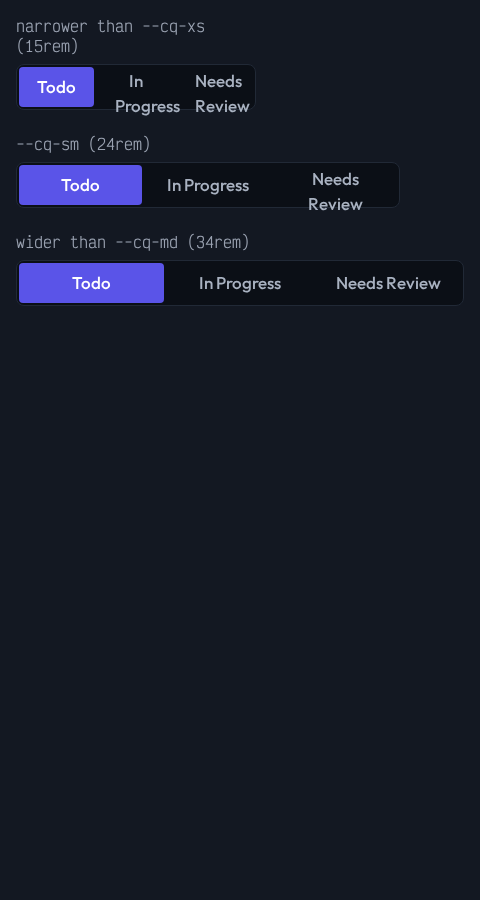
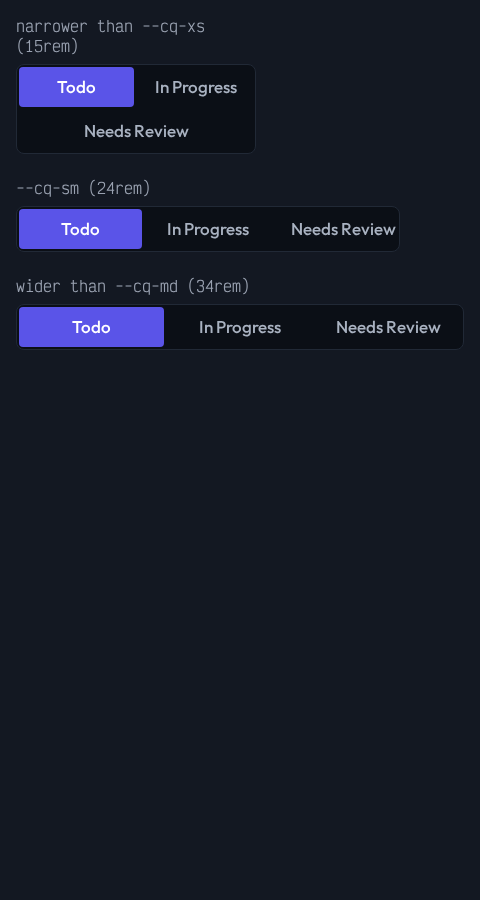
fix(ui): wrap narrow board lane selectors

diff --git a/packages/ui/src/SegmentedControl/SegmentedControl.test.tsx b/packages/ui/src/SegmentedControl/SegmentedControl.test.tsx
@@ -207,7 +207,7 @@ test("selectedValue decides the first render and nothing after", async () => {
   })
 })
 
-test("full-width mode fills its container with equal options", async () => {
+test("full-width mode fills its container without wrapping labels", async () => {
   const { canvas } = await mountStory(FullWidth)
 
   for (const group of canvas.getAllByRole("radiogroup", {
@@ -218,13 +218,26 @@ test("full-width mode fills its container with equal options", async () => {
       (option) => option.getBoundingClientRect().width,
     )
 
-    expect(
-      group.getBoundingClientRect().width,
-    ).toBeGreaterThan(
-      widths.reduce((sum, width) => sum + width, 0),
-    )
-    expect(
-      Math.max(...widths) - Math.min(...widths),
-    ).toBeLessThan(1)
+    if (
+      group.getAttribute("aria-label")?.includes("15rem")
+    ) {
+      // Two equal targets fit on the first row. The third fills the
+      // second row, so every label stays intact and there is no gap.
+      expect(widths[0]).toBeCloseTo(widths[1] ?? 0, 0)
+      expect(widths[2]).toBeGreaterThan(widths[0] ?? 0)
+      expect(
+        group.getBoundingClientRect().width -
+          (widths[2] ?? 0),
+      ).toBeLessThanOrEqual(8)
+    } else {
+      expect(
+        group.getBoundingClientRect().width,
+      ).toBeGreaterThan(
+        widths.reduce((sum, width) => sum + width, 0),
+      )
+      expect(
+        Math.max(...widths) - Math.min(...widths),
+      ).toBeLessThan(1)
+    }
   }
 })

diff --git a/packages/ui/src/SegmentedControl/SegmentedControl.stories.tsx b/packages/ui/src/SegmentedControl/SegmentedControl.stories.tsx
@@ -142,15 +142,38 @@ export const Responsive: Story = {
 /**
  * A board's lane selector is a route selector, not a compact
  * preference. It reaches the board's edges and each route gets the
- * same hit area, even when the labels have different lengths.
+ * same hit area. At a cramped width, two targets share the first
+ * row and the final target takes the full second row, so no label
+ * wraps or clips.
  */
 export const FullWidth: Story = {
   args: {
     isFullWidth: true,
     items: [
-      { label: "Todo", value: "todo" },
-      { label: "In Progress", value: "in-progress" },
-      { label: "Needs Review", value: "needs-review" },
+      {
+        label: (
+          <span className="block whitespace-nowrap">
+            Todo
+          </span>
+        ),
+        value: "todo",
+      },
+      {
+        label: (
+          <span className="block whitespace-nowrap">
+            In Progress
+          </span>
+        ),
+        value: "in-progress",
+      },
+      {
+        label: (
+          <span className="block whitespace-nowrap">
+            Needs Review
+          </span>
+        ),
+        value: "needs-review",
+      },
     ],
     label: "Board lanes",
   },

diff --git a/packages/ui/src/SegmentedControl/SegmentedOption.tsx b/packages/ui/src/SegmentedControl/SegmentedOption.tsx
@@ -67,7 +67,11 @@ export const SegmentedOption = ({
       aria-checked={isChecked}
       className={toClassName(
         "cursor-pointer rounded-sm border border-transparent font-medium tabular-nums transition-colors duration-(--duration-fast) ease-standard",
-        isFullWidth && "min-w-0 flex-1 basis-0",
+        // In a very narrow board, three full labels cannot share
+        // one row. The minimum lets two fit, then the final option
+        // takes a full second row instead of wrapping its label or
+        // leaving unused space beside it.
+        isFullWidth && "min-w-28 flex-1 basis-28",
         CONTROL_SIZE_CLASS[size],
         // Two entries rather than one interpolated string:
         // `tailwindCandidates.test.ts` rejects a template literal in

diff --git a/packages/ui/src/Board/Board.tsx b/packages/ui/src/Board/Board.tsx
@@ -278,7 +278,12 @@ export const Board = ({
             // on any line at all.
             label: (
               <span className="flex flex-col items-center leading-tight">
-                <span>{lane.label}</span>
+                {/* Equal-width targets wrap onto a second row at an
+                    extreme Narrow View width, so lane labels always
+                    stay whole and each target keeps its baseline. */}
+                <span className="block whitespace-nowrap">
+                  {lane.label}
+                </span>
 
                 <span className="font-normal text-content-muted text-xs">
                   {String(

diff --git a/packages/ui/src/Board/Board.test.tsx b/packages/ui/src/Board/Board.test.tsx
@@ -325,6 +325,14 @@ test("the narrow layout picks lanes with a named radiogroup", async () => {
     name: /In Progress/,
   })
 
+  // Equal-width targets must not grow to two different heights just
+  // because one lane name contains a space. At an extreme Narrow
+  // View width, the selector wraps its final target rather than the
+  // label itself.
+  await expect(
+    within(inProgress).getByText("In Progress"),
+  ).toHaveClass("whitespace-nowrap")
+
   await userEvent.click(inProgress)
 
   await waitFor(() => {

diff --git a/packages/ui/src/SegmentedControl/SegmentedControl.tsx b/packages/ui/src/SegmentedControl/SegmentedControl.tsx
@@ -164,7 +164,7 @@ export const SegmentedControl = ({
       aria-label={label}
       className={toClassName(
         "inline-flex items-center rounded-md border border-border-subtle bg-surface-sunken p-0.5",
-        isFullWidth && "w-full",
+        isFullWidth && "w-full flex-wrap",
         GAP_CLASS[size],
         className,
       )}
